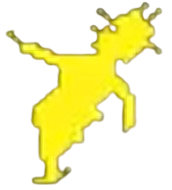
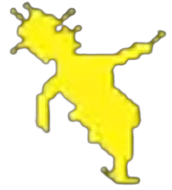
Death animation
know when the player dies the player makes an animation where he drops down dead

diff --git a/index.js b/index.js
@@ -147,7 +147,7 @@ function shoot(player, direction) {
   let bulletPositionX = parseInt(
     player.x + (direction === "left" ? 0 : player.width)
   );
-  let bulletPositionY = parseInt(player.y + player.height / 2);
+  let bulletPositionY = parseInt(player.y + player.height/2);
 
   // Creates the bullet
   let bullet = new Bullet(
@@ -215,8 +215,8 @@ function startGame() {
   restartBullets();
 
   // Creates new player objects
-  player1 = new Player(80, 100, 12, 26, "left");
-  player2 = new Player(500, 100, 12, 26, "rigth");
+  player1 = new Player(80, 100, 22, 26, "left");
+  player2 = new Player(500, 100, 22, 26, "rigth");
 
   // Restarts the number of rounds
   roundNum = 0;
@@ -307,8 +307,8 @@ function startRound() {
     if (roundNum > 1 && roundNum < 6) addWallBush();
 
     // Sets players positions to default
-    player1.setDefault(80, 100, 12, 26);
-    player2.setDefault(500, 100, 12, 26);
+    player1.setDefault(80, 100, 30, 44);
+    player2.setDefault(500, 100,30, 44);
 
     // Bullets in window array gets emptied
     bulletsInWindow = [];
@@ -389,8 +389,8 @@ function gameOver() {
   // When u click in restart button, game will be restarted
   restart.addEventListener("click", () => {
     removegameOverContainer();
-    player1.setDeth();
-    player2.setDeth();
+    player1.playerElement.remove();
+    player2.playerElement.remove();
     startGame();
   });
 
@@ -398,8 +398,8 @@ function gameOver() {
   mainMenu.addEventListener("click", () => {
     document.querySelector(".menu").style.opacity = 1;
     document.querySelector(".menu").style.zIndex = 10;
-    player1.setDeth();
-    player2.setDeth();
+    player1.playerElement.remove();
+    player2.playerElement.remove();
     gameOverContainer.remove();
   });
 }

diff --git a/class/player.js b/class/player.js
@@ -75,6 +75,16 @@ export class Player extends GameObject {
 			this.x += this.velocityX;
 		}
 
+		if (this.movingTop || this.movingBottom || this.movingLeft || this.movingRight){
+			if (!this.playerElement.classList.contains("anim-walk")){
+				this.playerElement.classList.add("anim-walk");
+			}
+		}else {
+			if (this.playerElement.classList.contains("anim-walk")){
+				this.playerElement.classList.remove("anim-walk");
+			}
+		}
+
 		// Set custom CSS properties for player's position
 		setCustomProperty(this.playerElement, "left", this.x + "px");
 		setCustomProperty(this.playerElement, "bottom", this.y + "px");
@@ -91,7 +101,12 @@ export class Player extends GameObject {
 
 	// Updates values on death
 	setDeth() {
-		this.playerElement.remove();
+		this.playerElement.classList.add("death");
+		setTimeout(() => {
+		this.playerElement.classList.remove("death");
+			this.playerElement.remove();
+		}, 1500)
+
 		this.width = 0;
 		this.height = 0;
 		this.dead = true;

diff --git a/style.css b/style.css
@@ -296,6 +296,37 @@ div.rigth {
 
 }
 
+.anim-walk{
+  animation: anim-walk 1s infinite linear;
+}
+
+@keyframes anim-walk {
+  0%{
+    background-image: url("./Icons/animpl1.png");
+  }
+  50%{
+    background-image: url("./Icons/animpl2.png");
+  }100%{
+    background-image: url("./Icons/animpl3.png");
+  }
+}
+
+.death{
+  background-image: url("./Icons/animpdeath2.png");
+  animation: anim-death .5s linear;
+}
+
+@keyframes anim-death {
+  0%{
+    background-image: url("./Icons/animpl1.png");
+  }
+  50%{
+    background-image: url("./Icons/animpdeath1.png");
+  }100%{
+    background-image: url("./Icons/animpdeath2.png");
+  }
+}
+
 .round {
   height: 480px;
   width: 640px;
